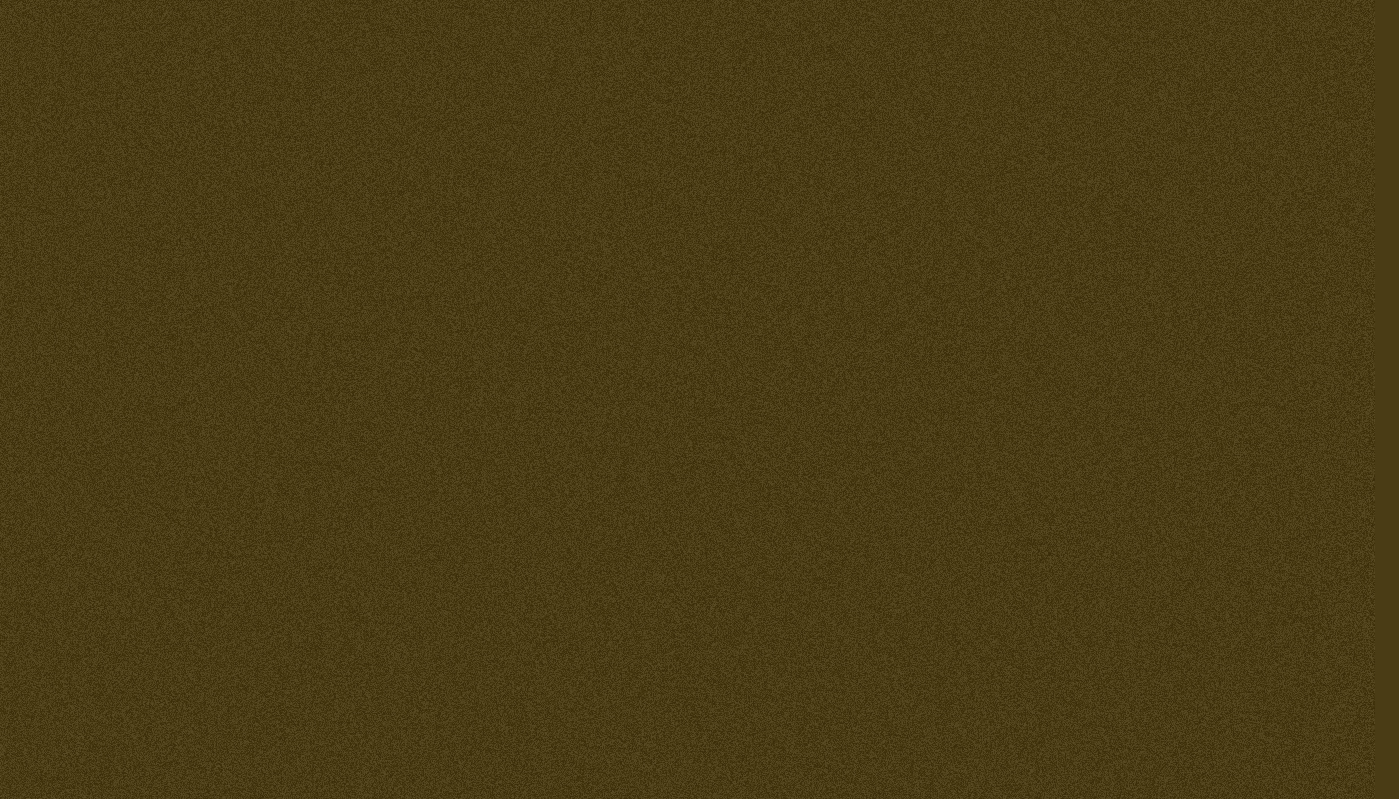
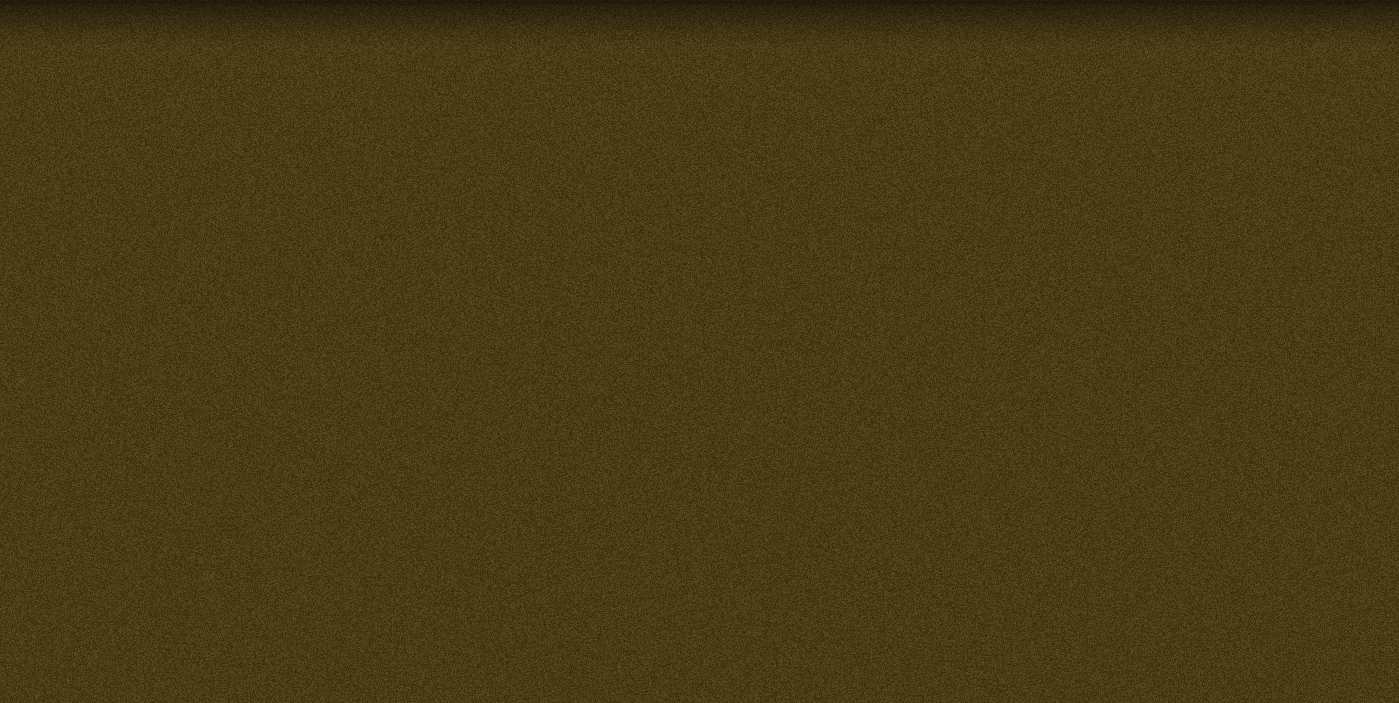
css updates

Changed region(s): [[0.0, 0.0, 1.0, 0.0597]]

diff --git a/CodeSlingers2012/css/style.css b/CodeSlingers2012/css/style.css
@@ -266,7 +266,7 @@ body {
 }
 #mainContainer {
 	margin: 0 auto;
-	width: 1398px;
+	width: 1399px;
 }
 header {
 	position: fixed;
@@ -274,7 +274,6 @@ header {
 	width: 1600px;
 	z-index: 200;
 }
-footer { }
 
 /*-----------------------------------------------------------------------------------
 4. Layouts and Page Elements
@@ -477,6 +476,54 @@ nav a.connect { padding-top: 21px; }
 	left: 2px;
 	top: -8px;
 }
+
+/* Menu
+------------------------------------------*/
+#menu {
+	background: url(../Images/menu-bg.png) no-repeat;
+	height: 718px;
+	position: relative;
+	top: -16px;
+	width: 100%;
+}
+
+/* Locations
+------------------------------------------*/
+#locations {
+	background: #f0ede4;
+	height: 701px;
+	position: relative;
+	top: -16px;
+}
+
+/* Jobs
+------------------------------------------*/
+#jobs {
+	background: url(../Images/jobs-bg.jpg) no-repeat;
+	height: 703px;
+	position: relative;
+	top: -16px;
+}
+
+/* Connect
+------------------------------------------*/
+#connect {
+	background: url(../Images/connect-bg.jpg) no-repeat;
+	height: 703px;
+	position: relative;
+	top: -16px;
+}
+
+/* Footer
+------------------------------------------*/
+footer {
+	background: #000000;
+	height: 236px;
+	position: relative;
+	top: -16px;
+	width: 1401px;
+}
+
 /*-----------------------------------------------------------------------------------
  5. Conditional styles
 -----------------------------------------------------------------------------------*/
